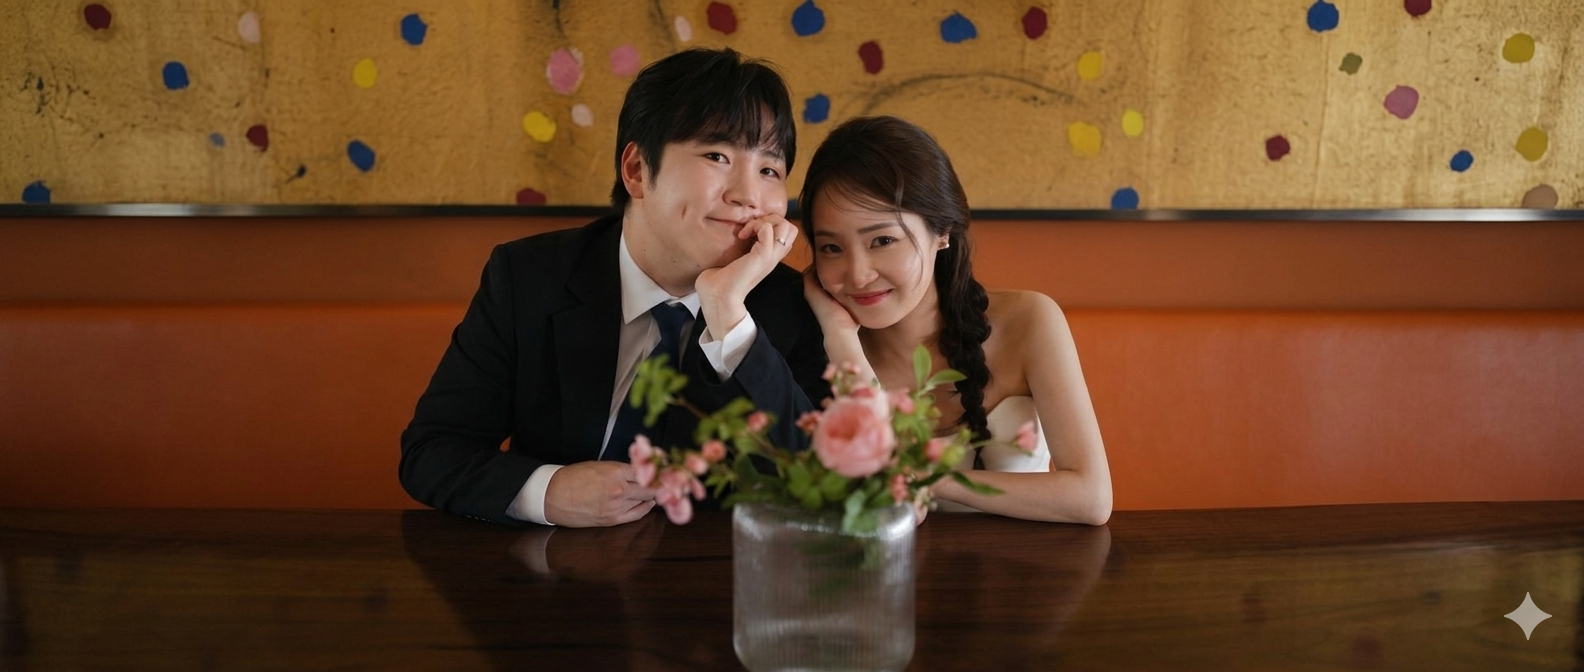
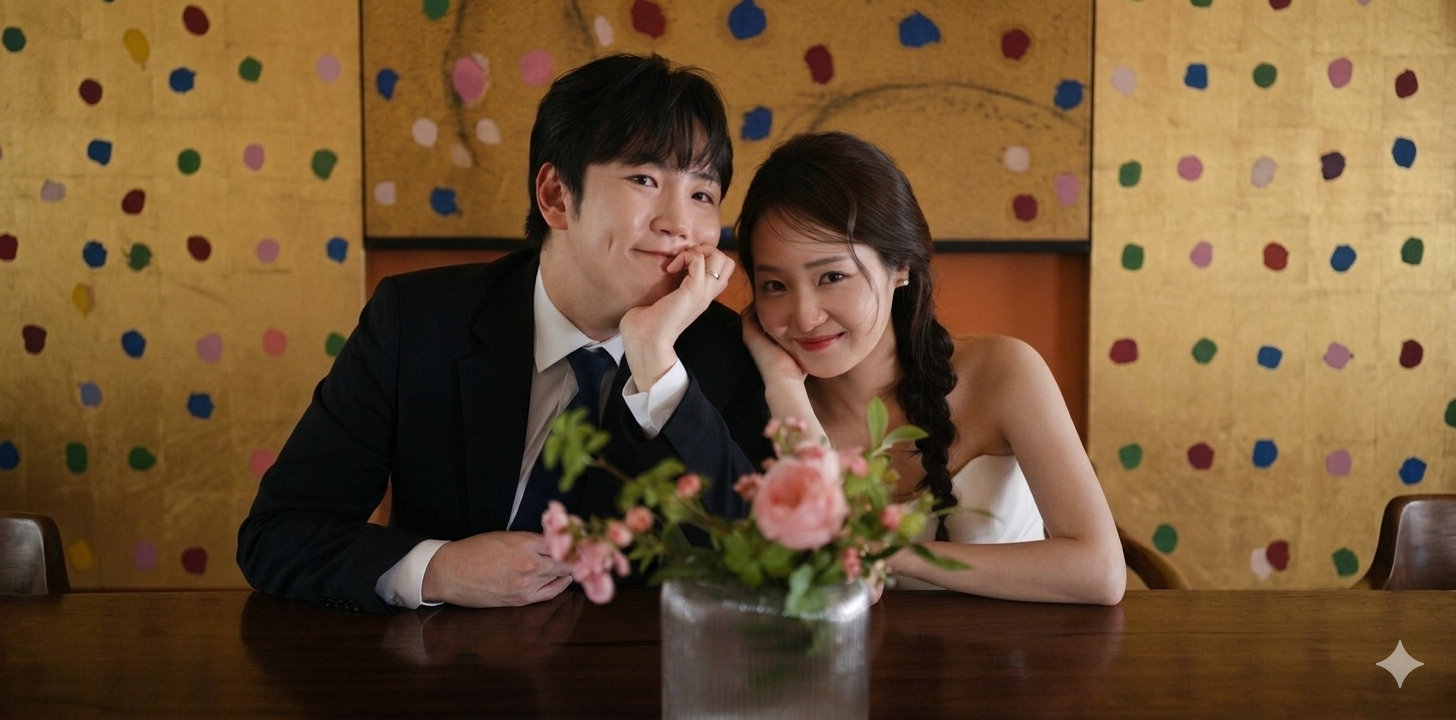
added photo

diff --git a/script.js b/script.js
@@ -54,7 +54,9 @@ var CONFIG = {
 
   /* ── 갤러리 이미지 목록 ──────────────────────────────────
      src/gallery 에 이미지 추가 시 이 배열에만 추가하면 됩니다.
-     wide: true → 3열 그리드에서 2칸 너비(가로형 사진에 적합)  */
+     마지막 행 레이아웃은 자동 보정됩니다:
+       개수 % 3 === 2 → 마지막 wide(2칸)
+       개수 % 3 === 1 → 마지막 fullrow(3칸 전체)            */
   galleryImages: [
     { src: "src/gallery/IMG_8467.JPG", alt: "커플 사진 1" },
     { src: "src/gallery/IMG_8471.jpg", alt: "커플 사진 2" },
@@ -63,7 +65,14 @@ var CONFIG = {
     { src: "src/gallery/IMG_8483.JPG", alt: "커플 사진 5" },
     { src: "src/gallery/IMG_8485.jpg", alt: "커플 사진 6" },
     { src: "src/gallery/IMG_8489 2.JPG", alt: "커플 사진 7" },
-    { src: "src/gallery/IMG_8503.jpg", alt: "커플 사진 8", wide: true },
+    { src: "src/gallery/IMG_8496.JPG", alt: "커플 사진 8" },
+    { src: "src/gallery/IMG_8497.jpg", alt: "커플 사진 9" },
+    { src: "src/gallery/IMG_8503.jpg", alt: "커플 사진 10" },
+    { src: "src/gallery/IMG_8508.jpg", alt: "커플 사진 11" },
+    { src: "src/gallery/IMG_8509.jpg", alt: "커플 사진 12" },
+    { src: "src/gallery/IMG_8510.jpg", alt: "커플 사진 13" },
+    { src: "src/gallery/IMG_8512.jpg", alt: "커플 사진 14" },
+    { src: "src/gallery/IMG_8513.JPG", alt: "커플 사진 15" },
   ],
 };
 